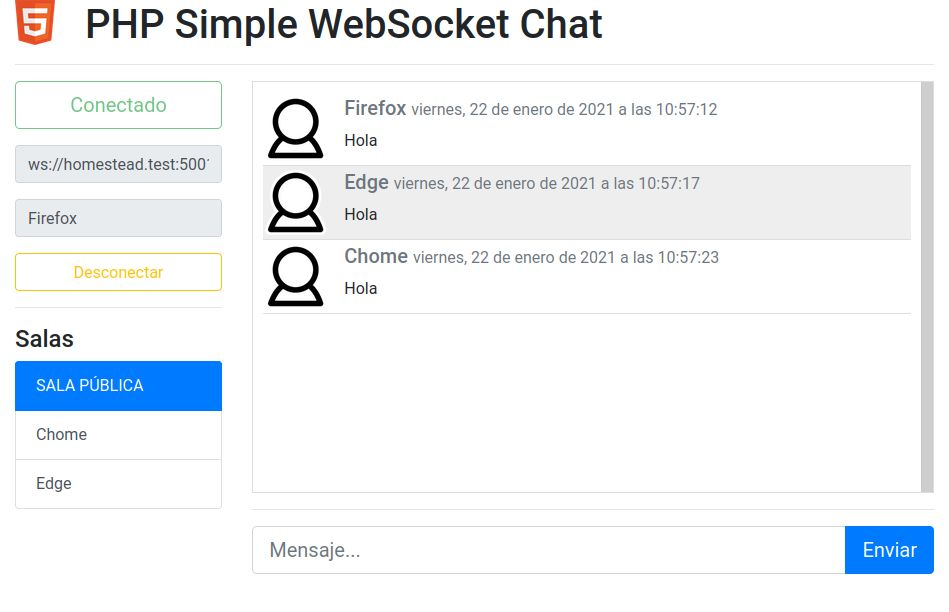
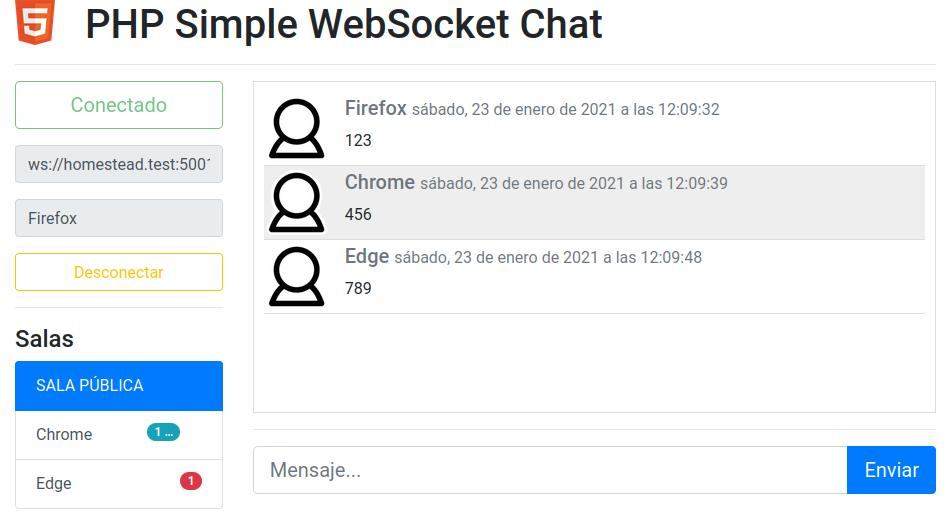
Características

diff --git a/readme.md b/readme.md
@@ -1,16 +1,24 @@
 # PHP Simple WebSocket Chat
 
-Usa la librería https://github.com/ghedipunk/PHP-Websockets
-
 ![Pantalla](cliente/img/pantallaso.jpg)
 
-## Servidor
+Usa la librería https://github.com/ghedipunk/PHP-Websockets
+
+## Características
+* Sala pública
+* Sala privada por usuario conectado
+* Contador de mensajes sin leer por sala
+* Contador de usuarios escribiendo por sala
+
+## Manual
+
+### Correr servidor
 
 * Mover a la carpeta servidor `cd servidor`
 * Opcional: editar parámetros en `chat.php`
 * Ejecutar servidor `./chat.php` o `php chat.php`
 
-## Cliente
+### Correr en cliente
 * Abrir cliente/index.html
 * Modificar parámetros de servidor y nombre de usuario
 * Conectar
